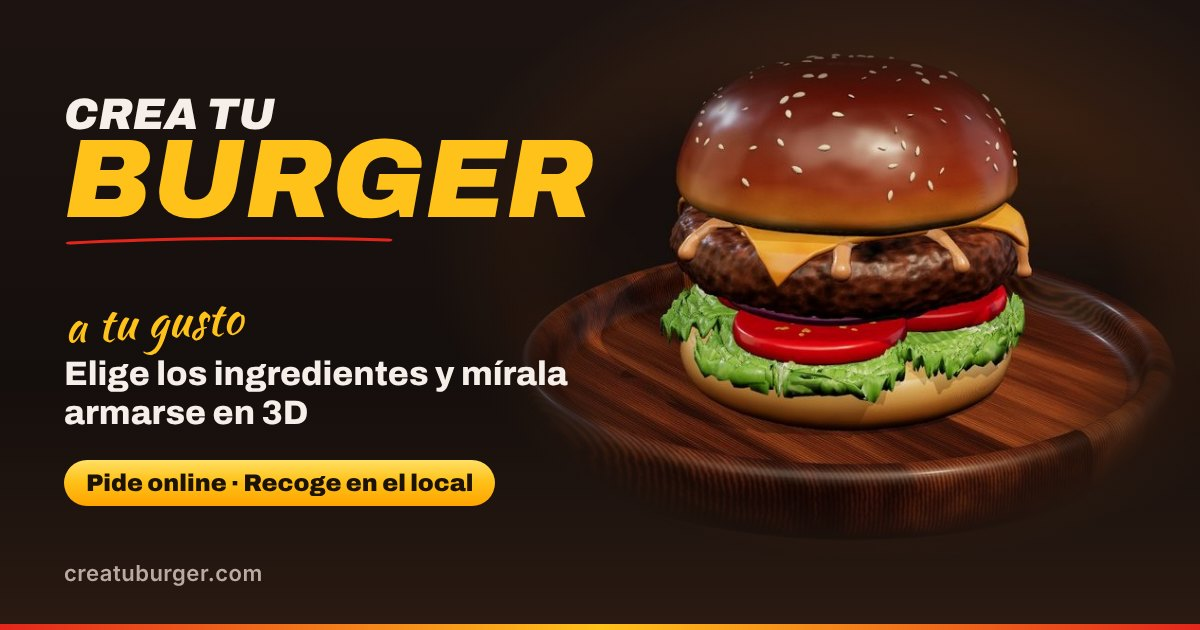
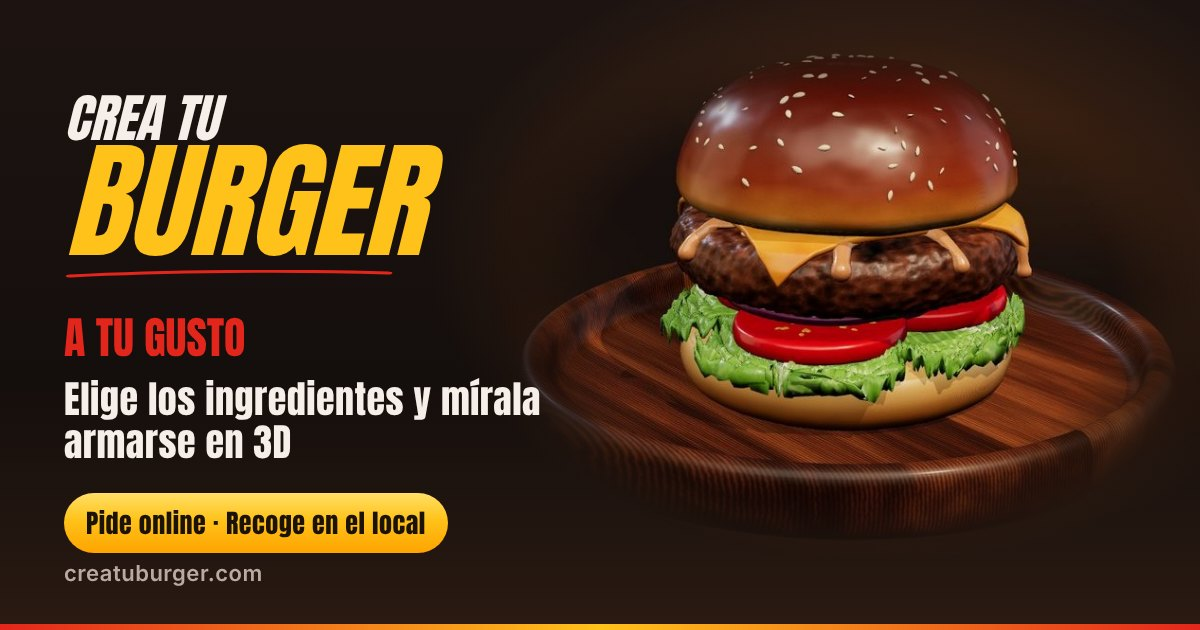
Tipografía Anton, «A tu gusto» y páginas legales adaptadas a móvil (#3)
* Tipografía Anton en todo el proyecto y páginas legales adaptadas a móvil

- Anton para titulares (web, admin, páginas legales, correos e imagen para compartir); Inter para el texto
- Sin negrita sintética en Anton (un solo peso)
- Alérgenos y cookies en móvil como fichas en lugar de tablas anchas
- Cabecera de las páginas legales sin solaparse en pantallas de 320 px

Claude-Session: https://claude.ai/code/session_01PBrZ7ZAyFrdA4NYjS5LNnw

* «Personalizada» pasa a «A tu gusto», en horizontal

Claude-Session: https://claude.ai/code/session_01PBrZ7ZAyFrdA4NYjS5LNnw

---------

Changed region(s): [[0.0308, 0.4825, 0.4933, 0.9048], [0.0308, 0.1508, 0.4933, 0.4524]]

diff --git a/src/server/mail/templates.ts b/src/server/mail/templates.ts
@@ -70,13 +70,13 @@ export function render(t: Template, o: MailOrder, store: Settings["store"]) {
       (i) => `<tr><td style="padding:8px 0;border-bottom:1px solid #eee;vertical-align:top"><b>${i.quantity}× ${esc(i.title)}</b><br><span style="color:#777;font-size:13px">${esc(i.description)}</span></td><td style="padding:8px 0;border-bottom:1px solid #eee;text-align:right;white-space:nowrap;vertical-align:top">${eur(i.totalCents)}</td></tr>`,
     )
     .join("");
-  const html = `<!doctype html><html lang="es"><head><meta charset="utf-8"><meta name="viewport" content="width=device-width"><title>${esc(c.subject(o.code))}</title></head>
-<body style="margin:0;background:#f4efe9;font-family:Arial,Helvetica,sans-serif;color:#1b1208">
+  const html = `<!doctype html><html lang="es"><head><meta charset="utf-8"><link href="https://fonts.googleapis.com/css2?family=Anton&family=Inter:wght@400;600;700&display=swap" rel="stylesheet"><meta name="viewport" content="width=device-width"><title>${esc(c.subject(o.code))}</title></head>
+<body style="margin:0;background:#f4efe9;font-family:Inter,Arial,Helvetica,sans-serif;color:#1b1208">
 <table role="presentation" width="100%" cellpadding="0" cellspacing="0" style="background:#f4efe9;padding:24px 12px"><tr><td align="center">
 <table role="presentation" width="100%" cellpadding="0" cellspacing="0" style="max-width:560px;background:#fff;border-radius:14px;overflow:hidden">
-<tr><td style="background:#120d0b;padding:18px 24px;color:#ffc21a;font-size:20px;font-weight:bold">${esc(store.name)}</td></tr>
+<tr><td style="background:#120d0b;padding:18px 24px;color:#ffc21a;font-size:24px;font-family:Anton,Impact,Arial Narrow,sans-serif;letter-spacing:0.5px;text-transform:uppercase">${esc(store.name)}</td></tr>
 <tr><td style="padding:24px">
-<h1 style="margin:0 0 8px;font-size:22px">${c.title}</h1>
+<h1 style="margin:0 0 8px;font-size:28px;font-weight:400;font-family:Anton,Impact,Arial Narrow,sans-serif;letter-spacing:0.5px">${c.title}</h1>
 <p style="margin:0 0 16px;color:#444;line-height:1.5">Hola ${esc(o.customerName.split(" ")[0])}, ${c.body.charAt(0).toLowerCase() + c.body.slice(1)}</p>
 <table role="presentation" width="100%" style="background:#fff7e0;border-radius:10px;padding:14px;margin-bottom:16px"><tr>
 <td><div style="font-size:12px;color:#7a5b00;text-transform:uppercase;letter-spacing:1px">Código de recogida</div><div style="font-size:28px;font-weight:bold;letter-spacing:3px">${o.code}</div><div style="font-size:13px;color:#555;margin-top:4px">Recogida: ${esc(pickup)}</div></td>

diff --git a/src/server/mail/code.ts b/src/server/mail/code.ts
@@ -10,14 +10,14 @@ export function renderCode(code: string, purpose: "register" | "login", name: st
     purpose === "register"
       ? "Usa este código para confirmar tu correo y crear tu cuenta."
       : "Usa este código para terminar de iniciar sesión.";
-  const html = `<!doctype html><html lang="es"><head><meta charset="utf-8"><meta name="viewport" content="width=device-width"><title>${esc(subject)}</title></head>
-<body style="margin:0;background:#f4efe9;font-family:Arial,Helvetica,sans-serif;color:#1b1208">
+  const html = `<!doctype html><html lang="es"><head><meta charset="utf-8"><link href="https://fonts.googleapis.com/css2?family=Anton&family=Inter:wght@400;600;700&display=swap" rel="stylesheet"><meta name="viewport" content="width=device-width"><title>${esc(subject)}</title></head>
+<body style="margin:0;background:#f4efe9;font-family:Inter,Arial,Helvetica,sans-serif;color:#1b1208">
 <table role="presentation" width="100%" cellpadding="0" cellspacing="0" style="background:#f4efe9;padding:24px 12px"><tr><td align="center">
 <table role="presentation" width="100%" cellpadding="0" cellspacing="0" style="max-width:480px;background:#fff;border-radius:14px;overflow:hidden">
-<tr><td style="background:#120d0b;padding:18px 24px;color:#ffc21a;font-size:20px;font-weight:bold">${esc(store.name)}</td></tr>
+<tr><td style="background:#120d0b;padding:18px 24px;color:#ffc21a;font-size:24px;font-family:Anton,Impact,Arial Narrow,sans-serif;letter-spacing:0.5px;text-transform:uppercase">${esc(store.name)}</td></tr>
 <tr><td style="padding:24px">
 <p style="margin:0 0 12px;color:#444;line-height:1.5">Hola${name ? ` ${esc(name.split(" ")[0])}` : ""}, ${intro}</p>
-<div style="margin:18px 0;padding:16px;background:#fff7e0;border-radius:10px;text-align:center;font-size:34px;font-weight:bold;letter-spacing:10px">${code}</div>
+<div style="margin:18px 0;padding:16px;background:#fff7e0;border-radius:10px;text-align:center;font-size:40px;font-family:Anton,Impact,Arial Narrow,sans-serif;letter-spacing:12px">${code}</div>
 <p style="margin:0;color:#777;font-size:13px;line-height:1.5">Caduca en 10 minutos. Si no has sido tú, ignora este correo: nadie puede entrar en tu cuenta sin este código.</p>
 </td></tr></table></td></tr></table></body></html>`;
   const text = `${intro}\n\nCódigo: ${code}\n\nCaduca en 10 minutos. Si no has sido tú, ignora este correo.`;

diff --git a/src/app/globals.css b/src/app/globals.css
@@ -16,13 +16,21 @@
   --color-gold-ink: #9a5a00;
   --color-char: #1c1917;
   --color-char-2: #292420;
-  --font-display: var(--font-archivo), "Arial Black", system-ui, sans-serif;
+  --font-display: var(--font-anton), "Impact", "Arial Narrow", system-ui, sans-serif;
   --font-sans: var(--font-inter), system-ui, -apple-system, "Segoe UI", sans-serif;
-  --font-script: var(--font-kaushan), "Brush Script MT", cursive;
+  --font-script: var(--font-anton), "Impact", system-ui, sans-serif;
 }
 
 html {
   color-scheme: dark;
+}
+
+/* Anton solo tiene un peso: sin negrita sintética (se vería borrosa), y un poco de aire entre letras. */
+.font-display,
+.font-script {
+  font-synthesis: style;
+  font-weight: 400 !important;
+  letter-spacing: 0.015em;
 }
 
 body {
@@ -223,15 +231,17 @@ body {
 }
 .legal h1 {
   font-family: var(--font-display);
-  font-weight: 900;
-  font-size: 1.875rem;
+  font-weight: 400;
+  font-size: clamp(2rem, 6vw, 2.75rem);
+  letter-spacing: 0.01em;
   line-height: 1.1;
   color: var(--color-ink);
 }
 .legal h2 {
   font-family: var(--font-display);
-  font-weight: 800;
-  font-size: 1.125rem;
+  font-weight: 400;
+  font-size: 1.375rem;
+  letter-spacing: 0.015em;
   color: var(--color-gold);
   margin-top: 2rem;
   margin-bottom: 0.5rem;
@@ -301,5 +311,43 @@ body {
 @media (max-width: 639px) {
   .legal-holder div {
     flex-direction: column;
+  }
+}
+
+/* Tablas legales en móvil: cada fila pasa a ser una ficha con etiquetas. */
+@media (max-width: 639px) {
+  .legal-stack thead {
+    display: none;
+  }
+  .legal-stack,
+  .legal-stack tbody,
+  .legal-stack tr,
+  .legal-stack td {
+    display: block;
+    width: 100%;
+  }
+  .legal-stack tr {
+    border: 1px solid var(--color-line);
+    border-radius: 0.75rem;
+    background: var(--color-panel);
+    padding: 0.5rem 0.75rem;
+    margin-bottom: 0.75rem;
+  }
+  .legal-stack td {
+    border: 0;
+    padding: 0.25rem 0;
+  }
+  .legal-stack td::before {
+    content: attr(data-label);
+    display: block;
+    font-size: 0.6875rem;
+    font-weight: 600;
+    text-transform: uppercase;
+    letter-spacing: 0.05em;
+    color: var(--color-muted);
+  }
+  .legal-stack td:first-child {
+    font-weight: 600;
+    color: var(--color-ink);
   }
 }

diff --git a/src/app/(legal)/alergenos/page.tsx b/src/app/(legal)/alergenos/page.tsx
@@ -47,7 +47,35 @@ async function Table() {
   const groups = [...new Set(list.map((r) => r.group))];
   return (
     <>
-      <div className="mt-6 overflow-x-auto rounded-xl border border-line">
+      {/* Móvil: una ficha por producto con sus alérgenos */}
+      <div className="mt-6 space-y-5 sm:hidden">
+        {groups.map((g) => (
+          <section key={g}>
+            <h2 className="!mt-0">{g}</h2>
+            <ul className="!mt-2 !list-none !pl-0 divide-y divide-line rounded-xl border border-line bg-panel">
+              {list
+                .filter((r) => r.group === g)
+                .map((r) => (
+                  <li key={r.id} className="!mt-0 px-3 py-2.5">
+                    <p className="!mt-0 font-semibold text-ink">{r.name}</p>
+                    {r.allergens.length ? (
+                      <p className="!mt-1 flex flex-wrap gap-1.5">
+                        {ALLERGEN_LIST.filter((a) => r.allergens.includes(a)).map((a) => (
+                          <span key={a} className="rounded-full bg-red/15 px-2 py-0.5 text-xs font-semibold text-red-200 ring-1 ring-red/40">
+                            {capitalize(a)}
+                          </span>
+                        ))}
+                      </p>
+                    ) : (
+                      <p className="!mt-0.5 text-xs text-muted">Sin alérgenos declarados</p>
+                    )}
+                  </li>
+                ))}
+            </ul>
+          </section>
+        ))}
+      </div>
+      <div className="mt-6 overflow-x-auto rounded-xl border border-line max-sm:hidden">
         <table className="legal-table min-w-[44rem]">
           <thead>
             <tr>
@@ -86,7 +114,7 @@ async function Table() {
           ))}
         </table>
       </div>
-      <p>
+      <p className="max-sm:hidden">
         <span className="mr-1.5 inline-block size-3 rounded-full bg-red align-middle" aria-hidden /> = contiene el alérgeno.
       </p>
       <h2>Trazas</h2>

diff --git a/src/app/layout.tsx b/src/app/layout.tsx
@@ -1,10 +1,10 @@
 import type { Metadata, Viewport } from "next";
-import { Archivo, Inter, Kaushan_Script } from "next/font/google";
+import { Anton, Inter } from "next/font/google";
 import "./globals.css";
 
-const archivo = Archivo({ variable: "--font-archivo", subsets: ["latin"], axes: ["wdth"], style: ["normal", "italic"] });
+/** Tipografía de marca: Anton para titulares e impacto, Inter para texto e información. */
+const anton = Anton({ variable: "--font-anton", subsets: ["latin"], weight: "400" });
 const inter = Inter({ variable: "--font-inter", subsets: ["latin"] });
-const script = Kaushan_Script({ variable: "--font-kaushan", subsets: ["latin"], weight: "400" });
 
 const SITE = (process.env.APP_BASE_URL || "https://creatuburger.com").replace(/\/$/, "");
 const DESCRIPTION =
@@ -33,7 +33,7 @@ export const viewport: Viewport = { themeColor: "#120d0b", colorScheme: "dark" }
 
 export default function RootLayout({ children }: LayoutProps<"/">) {
   return (
-    <html lang="es" className={`${archivo.variable} ${inter.variable} ${script.variable} antialiased`}>
+    <html lang="es" className={`${anton.variable} ${inter.variable} antialiased`}>
       <body className="min-h-dvh">{children}</body>
     </html>
   );

diff --git a/src/app/(legal)/cookies/page.tsx b/src/app/(legal)/cookies/page.tsx
@@ -17,6 +17,8 @@ const ROWS = [
   ["__Host-cb_admin", "Crea tu Burger", "Cookie", "Sesión y seguridad del panel del restaurante. Solo para el personal del local.", "Hasta cerrar sesión o por inactividad"],
 ] as const;
 
+const HEAD = ["Nombre", "De quién", "Tipo", "Para qué", "Duración"];
+
 export default function Cookies() {
   return (
     <LegalPage title="Política de cookies" updated="19 de noviembre de 2026">
@@ -36,7 +38,7 @@ export default function Cookies() {
 
           <h2>2. Lista de cookies y almacenamiento</h2>
           <div className="overflow-x-auto">
-            <table className="legal-table">
+            <table className="legal-table legal-stack">
               <thead>
                 <tr>
                   <th>Nombre</th>
@@ -50,7 +52,9 @@ export default function Cookies() {
                 {ROWS.map((r) => (
                   <tr key={r[0]}>
                     {r.map((c, n) => (
-                      <td key={n}>{c}</td>
+                      <td key={n} data-label={HEAD[n]}>
+                        {c}
+                      </td>
                     ))}
                   </tr>
                 ))}

diff --git a/src/app/(legal)/layout.tsx b/src/app/(legal)/layout.tsx
@@ -9,8 +9,9 @@ export default function LegalLayout({ children }: { children: React.ReactNode })
       <header className="sticky top-0 z-10 bg-[linear-gradient(180deg,#1f1613_0%,#140e0c_100%)]">
         <div className="mx-auto flex h-14 max-w-3xl items-center justify-between px-4 lg:h-16">
           <Logo compact />
-          <Link href="/" className="flex items-center gap-1.5 rounded-full border border-white/10 bg-white/[0.04] px-3.5 py-2 text-sm font-semibold hover:border-gold/50">
-            <ArrowLeft className="size-4" /> Crear mi burger
+          <Link href="/" className="flex items-center gap-1.5 rounded-full border border-white/10 bg-white/[0.04] shrink-0 px-3.5 py-2 text-sm font-semibold hover:border-gold/50">
+            <ArrowLeft className="size-4" /> <span className="max-[359px]:hidden">Crear mi burger</span>
+            <span className="min-[360px]:hidden">Volver</span>
           </Link>
         </div>
         <div className="h-px bg-[linear-gradient(90deg,transparent,rgba(227,38,27,0.9)_15%,#ffc21a_50%,rgba(227,38,27,0.9)_85%,transparent)]" />

diff --git a/src/components/Configurator.tsx b/src/components/Configurator.tsx
@@ -221,8 +221,8 @@ function Stage() {
         <h1 className="whitespace-nowrap font-display text-lg font-extrabold leading-none lg:text-[1.625rem]">
           Tu Hamburguesa
         </h1>
-        <p className="-rotate-3 font-script text-2xl leading-tight text-gold lg:text-[2.25rem]">
-          Personalizada
+        <p className="font-script text-2xl leading-tight text-gold lg:text-[2.25rem]">
+          A tu gusto
         </p>
         <p className="mt-0.5 hidden text-[0.8125rem] text-ink/80 sm:block">
           Crea tu combinación perfecta con ingredientes premium.

diff --git a/README.md b/README.md
@@ -158,7 +158,7 @@ Abre http://localhost:3000. Para comprobar antes de subir: `npx tsc --noEmit`, `
 ```
 src/
   app/
-    layout.tsx        Fuentes (Archivo, Inter, Kaushan Script) y metadatos
+    layout.tsx        Fuentes (Anton para titulares, Inter para texto) y metadatos
     page.tsx          Página principal
     globals.css       Colores, escalado por pantalla, scroll y botón animado
     admin/            Panel del restaurante (login, resumen, pedidos, cocina, escáner, etc.)
@@ -215,3 +215,4 @@ scripts/              Migrar, cargar datos, pruebas de API y de carga
 12. Cabecera sin el menú de secciones (Crear, Especiales, Promociones, Alérgenos) ni la barra inferior del móvil.
 13. Fase 3, bloque 1: páginas legales, aviso de cookies, alérgenos en la web y en el carrito, y SEO con imagen para compartir.
 14. Fase 3, bloque 2: cuenta de cliente con contraseña y código por correo que se verifica solo, historial de pedidos y "Repetir".
+15. Tipografía de marca: Anton en titulares (web, admin, páginas legales y correos) e Inter en el texto; páginas legales y de alérgenos adaptadas a móvil.
